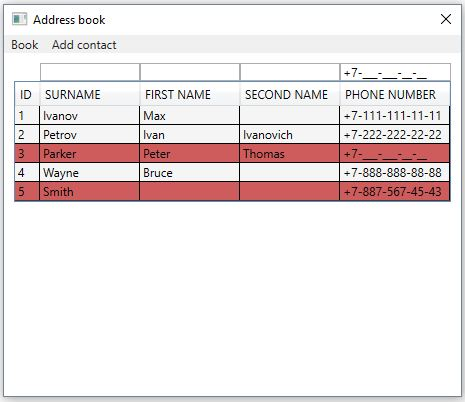
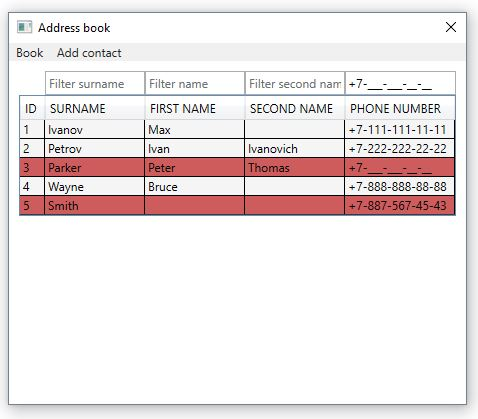
Changed ReadMe

Changed region(s): [[0.0, 0.0, 1.0, 1.0]]

diff --git a/README.md b/README.md
@@ -1,7 +1,11 @@
 # Address book
 This repo contains .NET6 project of address book.<br /><br />
 ![alt text](Screenshot.JPG)<br />
-You can adding contact by "Add contact", saving in XML-file and openning books, deleting and editing contacts by mouse right click.<br /><br />
+User can:<br />
+-adding contact;<br />
+-saving in XML-file and openning books;<br />
+-deleting and editing contacts by mouse right click;<br />
+-filtering contacts by fields.<br /><br />
 
 If you added incorrect data (surname and name must be at least 2 and not more than 50 characters, phone number must be filled), this contact will be highlighted. 
 
